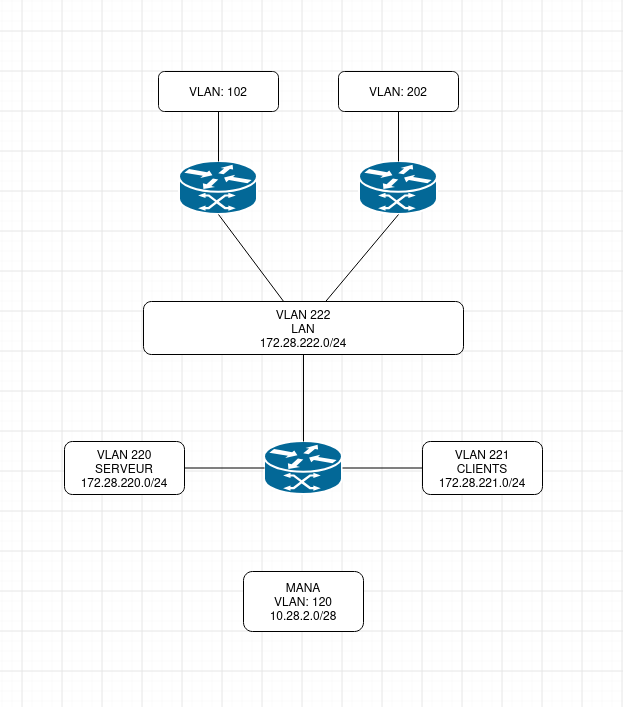
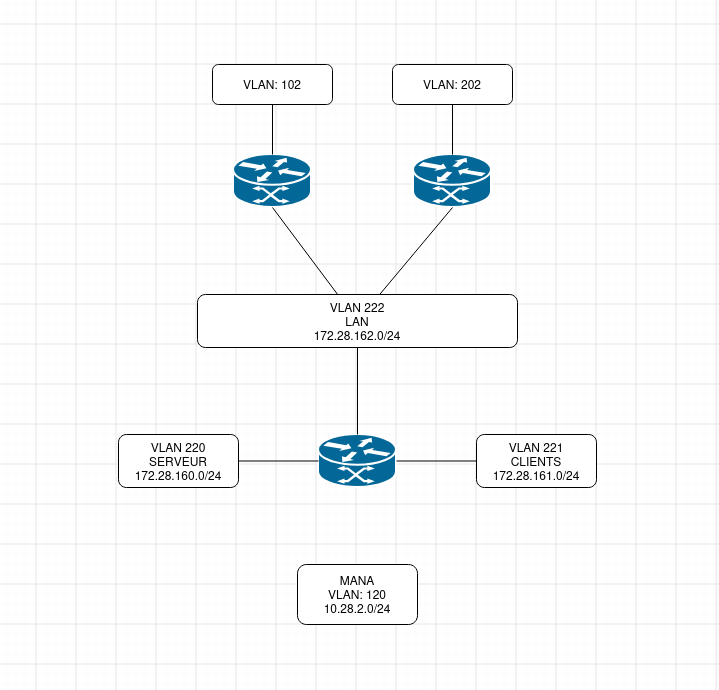
Amelioration de la doc

diff --git a/site/documentation/index.html b/site/documentation/index.html
@@ -7,14 +7,14 @@
         
         
         
-        <link rel="shortcut icon" href="/img/favicon.ico">
-        <title>Sport-Ludique Chartres</title>
-        <link href="/css/bootstrap.min.css" rel="stylesheet">
-        <link href="/css/fontawesome.min.css" rel="stylesheet">
-        <link href="/css/brands.min.css" rel="stylesheet">
-        <link href="/css/solid.min.css" rel="stylesheet">
-        <link href="/css/v4-font-face.min.css" rel="stylesheet">
-        <link href="/css/base.css" rel="stylesheet">
+        <link rel="shortcut icon" href="../img/favicon.ico">
+        <title>Documentation - Sport-Ludique Chartres</title>
+        <link href="../css/bootstrap.min.css" rel="stylesheet">
+        <link href="../css/fontawesome.min.css" rel="stylesheet">
+        <link href="../css/brands.min.css" rel="stylesheet">
+        <link href="../css/solid.min.css" rel="stylesheet">
+        <link href="../css/v4-font-face.min.css" rel="stylesheet">
+        <link href="../css/base.css" rel="stylesheet">
         <link id="hljs-light" rel="stylesheet" href="https://cdnjs.cloudflare.com/ajax/libs/highlight.js/11.8.0/styles/color-brewer.min.css" >
         <link id="hljs-dark" rel="stylesheet" href="https://cdnjs.cloudflare.com/ajax/libs/highlight.js/11.8.0/styles/github-dark.min.css" disabled>
         <script src="https://cdnjs.cloudflare.com/ajax/libs/highlight.js/11.8.0/highlight.min.js"></script>
@@ -24,7 +24,7 @@
     <body>
         <div class="navbar fixed-top navbar-expand-lg navbar-dark bg-primary">
             <div class="container">
-                <a class="navbar-brand" href="/.">Sport-Ludique Chartres</a>
+                <a class="navbar-brand" href="..">Sport-Ludique Chartres</a>
                 <!-- Expander button -->
                 <button type="button" class="navbar-toggler" data-bs-toggle="collapse" data-bs-target="#navbar-collapse" aria-controls="navbar-collapse" aria-expanded="false" aria-label="Toggle navigation">
                     <span class="navbar-toggler-icon"></span>
@@ -35,13 +35,13 @@
                         <!-- Main navigation -->
                         <ul class="nav navbar-nav">
                             <li class="nav-item">
-                                <a href="/." class="nav-link">Accueil</a>
+                                <a href=".." class="nav-link">Accueil</a>
                             </li>
                             <li class="nav-item">
-                                <a href="/documentation/" class="nav-link">Documentation</a>
+                                <a href="./" class="nav-link active" aria-current="page">Documentation</a>
                             </li>
                             <li class="nav-item">
-                                <a href="/annexes/" class="nav-link">Annexes</a>
+                                <a href="../annexes/" class="nav-link">Annexes</a>
                             </li>
                         </ul>
 
@@ -51,6 +51,16 @@
                                 <i class="fa fa-search"></i> Search
                             </a>
                         </li>
+                            <li class="nav-item">
+                                <a rel="prev" href=".." class="nav-link">
+                                    <i class="fa fa-arrow-left"></i> Previous
+                                </a>
+                            </li>
+                            <li class="nav-item">
+                                <a rel="next" href="../annexes/" class="nav-link">
+                                    Next <i class="fa fa-arrow-right"></i>
+                                </a>
+                            </li>
                     </ul>
                 </div>
             </div>
@@ -58,15 +68,39 @@
 
         <div class="container">
             <div class="row">
-
-    <div class="row-fluid">
-      <div id="main-content" class="span12">
-        <h1 id="404-page-not-found" style="text-align: center">404</h1>
-        <p style="text-align: center"><strong>Page not found</strong></p>
-      </div>
+                    <div class="col-md-3"><div class="navbar-expand-md bs-sidebar hidden-print affix" role="complementary">
+    <div class="navbar-header">
+        <button type="button" class="navbar-toggler collapsed" data-bs-toggle="collapse" data-bs-target="#toc-collapse" title="Table of Contents">
+            <span class="fa fa-angle-down"></span>
+        </button>
     </div>
 
+    
+    <div id="toc-collapse" class="navbar-collapse collapse card bg-body-tertiary">
+        <ul class="nav flex-column">
+            
+            <li class="nav-item" data-bs-level="2"><a href="#configuration-du-switch" class="nav-link">Configuration du switch</a>
+              <ul class="nav flex-column">
+              </ul>
+            </li>
+        </ul>
+    </div>
+</div></div>
+                    <div class="col-md-9" role="main">
 
+<h2 id="configuration-du-switch">Configuration du switch</h2>
+<p>Réinitialisation du switch <code>erase config-startup</code>
+Cette commande permet de supprimer la configuration actuelle du switch.</p>
+<p>Renommage du switch</p>
+<p>Passer en mode privilégié avec la commande suivante : <code>enable</code></p>
+<p>Taper la commande suivante pour entrer dans le mode configuration terminal : <code>configure terminal</code></p>
+<p>Pour le renommer, on entrera la commande suivante : <code>hostname ‘nom du switch’</code></p>
+<p>Créer les différents Vlan nécessaires</p>
+<p>Toujours en mode privilégié tapez la commande suivante <code>vlan [numéro du port]</code> puis <code>name [nom_du_VLAN]</code></p>
+<p>Attribuer des ports aux VLANS</p>
+<p>Tout en étant dans la configuration du switch, entrez la commande suivante : <code>interface [numéro du port]</code></p>
+<p>Définir le mode d’accès : <code>switchport mode access/trunk</code></p>
+<p>Associer le port au VLAN : <code>Switchport access vlan [numéro de vlan]</code></p></div>
             </div>
         </div>
 
@@ -74,13 +108,13 @@
             <hr>
             <p>Documentation built with <a href="https://www.mkdocs.org/">MkDocs</a>.</p>
         </footer>
-        <script src="/js/bootstrap.bundle.min.js"></script>
+        <script src="../js/bootstrap.bundle.min.js"></script>
         <script>
-            var base_url = "/",
+            var base_url = "..",
                 shortcuts = {"help": 191, "next": 78, "previous": 80, "search": 83};
         </script>
-        <script src="/js/base.js"></script>
-        <script src="/search/main.js"></script>
+        <script src="../js/base.js"></script>
+        <script src="../search/main.js"></script>
 
         <div class="modal" id="mkdocs_search_modal" tabindex="-1" role="dialog" aria-labelledby="searchModalLabel" aria-hidden="true">
     <div class="modal-dialog modal-lg">

diff --git a/site/index.html b/site/index.html
@@ -8,7 +8,7 @@
         
         
         <link rel="shortcut icon" href="img/favicon.ico">
-        <title>Projet-SIO2</title>
+        <title>Sport-Ludique Chartres</title>
         <link href="css/bootstrap.min.css" rel="stylesheet">
         <link href="css/fontawesome.min.css" rel="stylesheet">
         <link href="css/brands.min.css" rel="stylesheet">
@@ -24,7 +24,7 @@
     <body class="homepage">
         <div class="navbar fixed-top navbar-expand-lg navbar-dark bg-primary">
             <div class="container">
-                <a class="navbar-brand" href=".">Projet-SIO2</a>
+                <a class="navbar-brand" href=".">Sport-Ludique Chartres</a>
                 <!-- Expander button -->
                 <button type="button" class="navbar-toggler" data-bs-toggle="collapse" data-bs-target="#navbar-collapse" aria-controls="navbar-collapse" aria-expanded="false" aria-label="Toggle navigation">
                     <span class="navbar-toggler-icon"></span>
@@ -36,6 +36,9 @@
                         <ul class="nav navbar-nav">
                             <li class="nav-item">
                                 <a href="." class="nav-link active" aria-current="page">Accueil</a>
+                            </li>
+                            <li class="nav-item">
+                                <a href="documentation/" class="nav-link">Documentation</a>
                             </li>
                             <li class="nav-item">
                                 <a href="annexes/" class="nav-link">Annexes</a>
@@ -54,7 +57,7 @@
                                 </a>
                             </li>
                             <li class="nav-item">
-                                <a rel="next" href="annexes/" class="nav-link">
+                                <a rel="next" href="documentation/" class="nav-link">
                                     Next <i class="fa fa-arrow-right"></i>
                                 </a>
                             </li>
@@ -76,9 +79,9 @@
     <div id="toc-collapse" class="navbar-collapse collapse card bg-body-tertiary">
         <ul class="nav flex-column">
             
-            <li class="nav-item" data-bs-level="1"><a href="#projet-sio2" class="nav-link">Projet-SIO2</a>
+            <li class="nav-item" data-bs-level="1"><a href="#sport-ludique-chartres" class="nav-link">Sport-Ludique Chartres</a>
               <ul class="nav flex-column">
-            <li class="nav-item" data-bs-level="2"><a href="#configuration-du-switch" class="nav-link">Configuration du switch</a>
+            <li class="nav-item" data-bs-level="2"><a href="#objectif-du-projet" class="nav-link">Objectif du projet</a>
               <ul class="nav flex-column">
               </ul>
             </li>
@@ -89,21 +92,8 @@
 </div></div>
                     <div class="col-md-9" role="main">
 
-<h1 id="projet-sio2">Projet-SIO2</h1>
-<p>Documentation du Projet</p>
-<h2 id="configuration-du-switch">Configuration du switch</h2>
-<p>Réinitialisation du switch <code>erase config-startup</code>
-Cette commande permet de supprimer la configuration actuelle du switch.</p>
-<p>Renommage du switch</p>
-<p>Passer en mode privilégié avec la commande suivante : <code>enable</code></p>
-<p>Taper la commande suivante pour entrer dans le mode configuration terminal : <code>configure terminal</code></p>
-<p>Pour le renommer, on entrera la commande suivante : <code>hostname ‘nom du switch’</code></p>
-<p>Créer les différents Vlan nécessaires</p>
-<p>Toujours en mode privilégié tapez la commande suivante <code>vlan [numéro du port]</code> puis <code>name [nom_du_VLAN]</code></p>
-<p>Attribuer des ports aux VLANS</p>
-<p>Tout en étant dans la configuration du switch, entrez la commande suivante : <code>interface [numéro du port]</code></p>
-<p>Définir le mode d’accès : <code>switchport mode access/trunk</code></p>
-<p>Associer le port au VLAN : <code>Switchport access vlan [numéro de vlan]</code></p></div>
+<h1 id="sport-ludique-chartres">Sport-Ludique Chartres</h1>
+<h2 id="objectif-du-projet">Objectif du projet</h2></div>
             </div>
         </div>
 
@@ -185,5 +175,5 @@ Cette commande permet de supprimer la configuration actuelle du switch.</p>
 
 <!--
 MkDocs version : 1.6.1
-Build Date UTC : 2026-09-08 06:00:31.639042+00:00
+Build Date UTC : 2026-09-08 09:26:27.865364+00:00
 -->

diff --git a/site/annexes/index.html b/site/annexes/index.html
@@ -8,7 +8,7 @@
         
         
         <link rel="shortcut icon" href="../img/favicon.ico">
-        <title>Annexes - Projet-SIO2</title>
+        <title>Annexes - Sport-Ludique Chartres</title>
         <link href="../css/bootstrap.min.css" rel="stylesheet">
         <link href="../css/fontawesome.min.css" rel="stylesheet">
         <link href="../css/brands.min.css" rel="stylesheet">
@@ -24,7 +24,7 @@
     <body>
         <div class="navbar fixed-top navbar-expand-lg navbar-dark bg-primary">
             <div class="container">
-                <a class="navbar-brand" href="..">Projet-SIO2</a>
+                <a class="navbar-brand" href="..">Sport-Ludique Chartres</a>
                 <!-- Expander button -->
                 <button type="button" class="navbar-toggler" data-bs-toggle="collapse" data-bs-target="#navbar-collapse" aria-controls="navbar-collapse" aria-expanded="false" aria-label="Toggle navigation">
                     <span class="navbar-toggler-icon"></span>
@@ -38,6 +38,9 @@
                                 <a href=".." class="nav-link">Accueil</a>
                             </li>
                             <li class="nav-item">
+                                <a href="../documentation/" class="nav-link">Documentation</a>
+                            </li>
+                            <li class="nav-item">
                                 <a href="./" class="nav-link active" aria-current="page">Annexes</a>
                             </li>
                         </ul>
@@ -49,7 +52,7 @@
                             </a>
                         </li>
                             <li class="nav-item">
-                                <a rel="prev" href=".." class="nav-link">
+                                <a rel="prev" href="../documentation/" class="nav-link">
                                     <i class="fa fa-arrow-left"></i> Previous
                                 </a>
                             </li>

diff --git a/docs/documentation.md b/docs/documentation.md
@@ -1,26 +1,36 @@
-## Configuration du switch
+# Configuration du switch
 
 
 
 Réinitialisation du switch `erase config-startup`
 Cette commande permet de supprimer la configuration actuelle du switch.
 
-Renommage du switch
-
+<br>
+## Renommage du switch
+ 
 Passer en mode privilégié avec la commande suivante : `enable`
 
 Taper la commande suivante pour entrer dans le mode configuration terminal : `configure terminal`
 
 Pour le renommer, on entrera la commande suivante : `hostname ‘nom du switch’`
 
-Créer les différents Vlan nécessaires
+<br>
+## Créer les différents Vlan nécessaires
 
 Toujours en mode privilégié tapez la commande suivante `vlan [numéro du port]` puis `name [nom_du_VLAN]`
 
-Attribuer des ports aux VLANS
+<br>
+## Attribuer des ports aux VLANS
 
 Tout en étant dans la configuration du switch, entrez la commande suivante : `interface [numéro du port]`
 
 Définir le mode d’accès : `switchport mode access/trunk`
 
 Associer le port au VLAN : `Switchport access vlan [numéro de vlan]`
+
+<br>
+## Creation d'un utilisateur
+
+Entrer dans la config du switch `username [admin] privilege 15 secret [password]`
+
+<br>

diff --git a/docs/annexes.md b/docs/annexes.md
@@ -15,3 +15,14 @@ Ceci est le schéma logique du réseau
 | Serveur | 220 | 172.28.220.0/24 |
 | Clients | 221 | 172.28.221.0/24 |
 | LAN | 222 | 172.28.222.0/24 |
+
+
+## Plage IP Site
+
+|          | Reseau       | Broadcast      |
+|----------|--------------|----------------|
+| Chartres | 172.28.160.0 | 172.28.191.255 |
+| Bourges  | 172.28.192.0 | 172.28.223.255 |
+| Tours    | 172.28.64.0  | 172.28.127.255 |
+| Orleans  | 172.28.128.0 | 172.28.159.255 |
+| Blois    | 172.28.32.0  | 172.28.63.255  |

diff --git a/docs/index.md b/docs/index.md
@@ -3,3 +3,5 @@
 ## Objectif du projet
 
 
+
+
